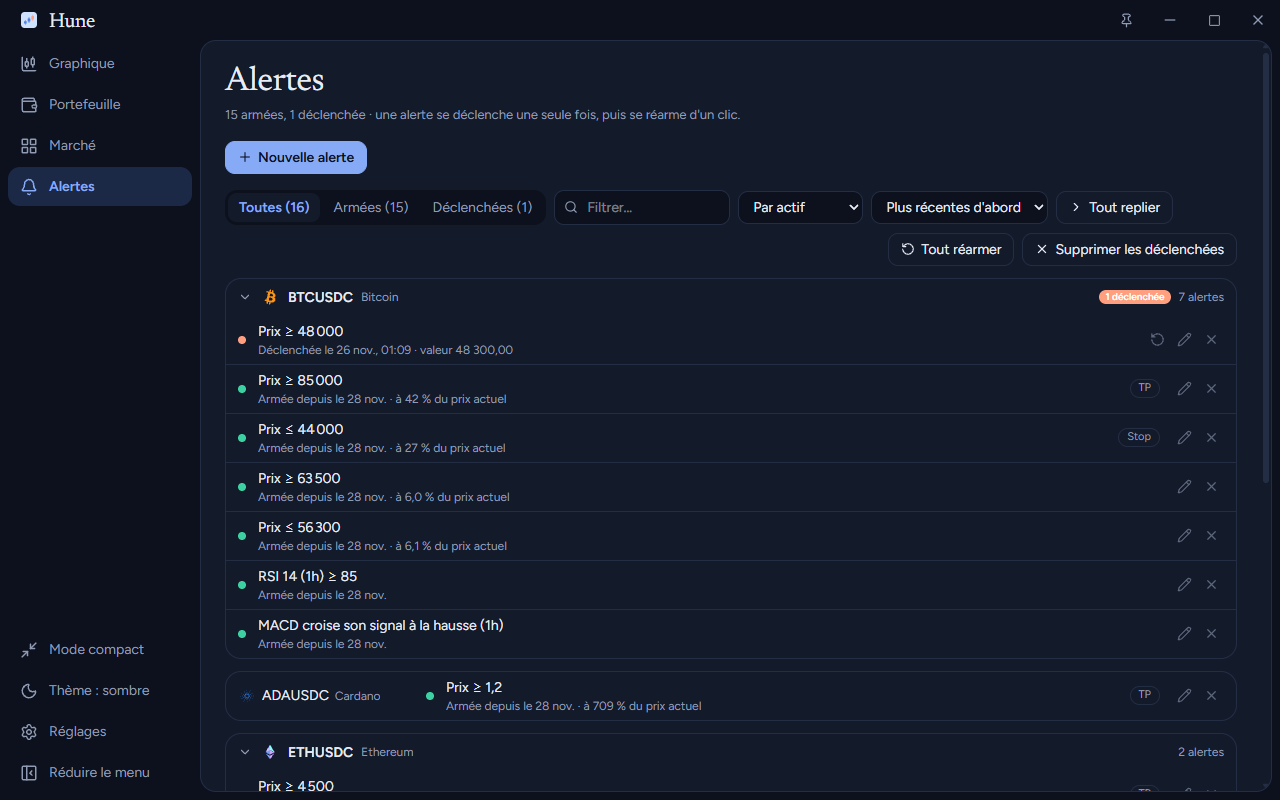
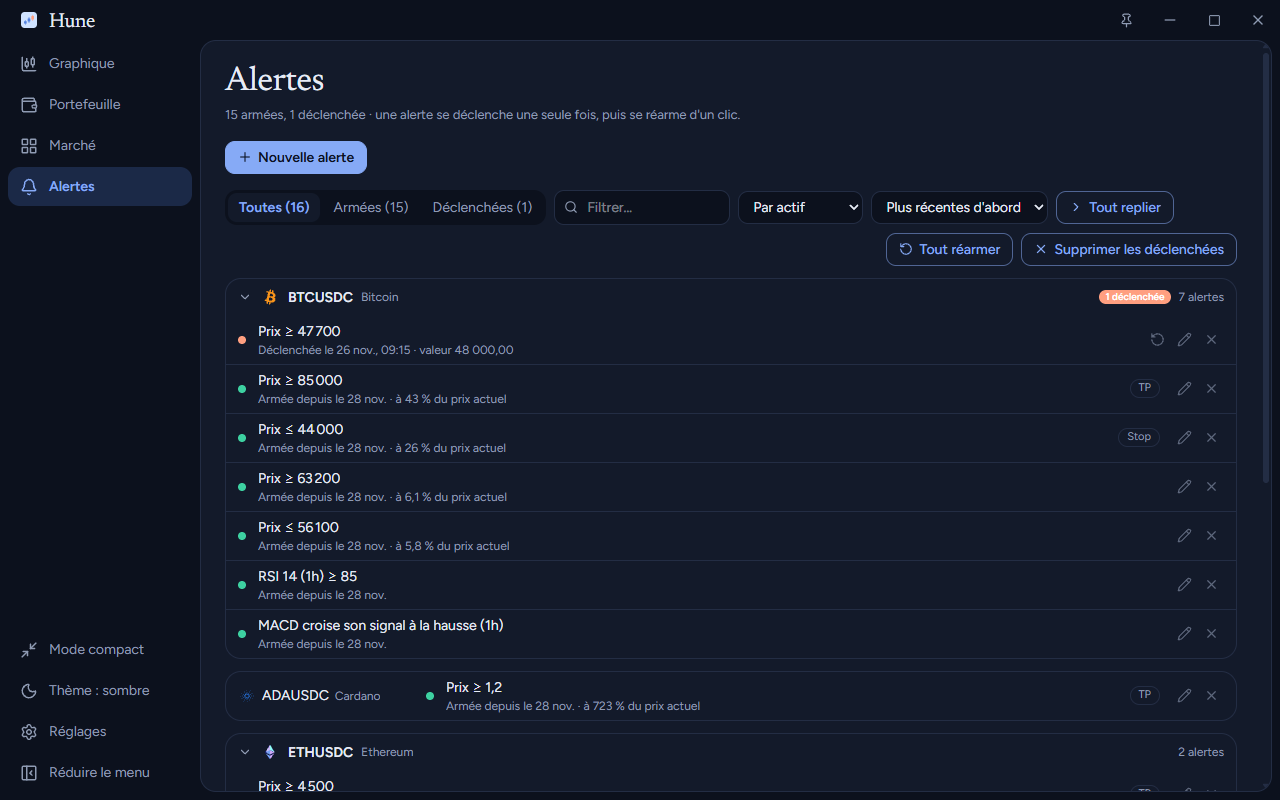
0.18.0 : boutons unifiés (plein bleu = action principale, contour bleu = secondaire)

diff --git a/src/vue-portefeuille.tsx b/src/vue-portefeuille.tsx
@@ -422,7 +422,7 @@ export function VuePortefeuille({ actifs, categories, cotations, devise, surDevi
           ))}
         </div>
         <input className="champ" placeholder="Filtrer…" value={filtre} onChange={(e) => setFiltre(e.target.value)} />
-        <button className="bouton" onClick={() => setFormulaire(formulaire ? null : { cle: actifs[0] ? cleActif(actifs[0]) : "", quantite: "", pamp: "", objectif: "", stop: "", plateforme: "", saisie: "" })}>
+        <button className="bouton bouton-actif" onClick={() => setFormulaire(formulaire ? null : { cle: actifs[0] ? cleActif(actifs[0]) : "", quantite: "", pamp: "", objectif: "", stop: "", plateforme: "", saisie: "" })}>
           <Plus size={14} /> Ajouter une position
         </button>
         <button className="bouton" title="Crée une alerte « prix ≥ objectif » pour chaque objectif saisi" onClick={preparerAlertesTp}>

diff --git a/src/styles.css b/src/styles.css
@@ -113,12 +113,14 @@ th {
   box-shadow: 0 0 0 3px color-mix(in srgb, var(--color-accent) 18%, transparent);
 }
 
+/* Boutons : une seule famille. Secondaire = contour bleu ; principal (.bouton-actif) = plein bleu. */
 .bouton {
   background: var(--color-carte);
-  border: 1px solid var(--color-ligne);
+  border: 1px solid color-mix(in srgb, var(--color-accent) 45%, var(--color-ligne));
   border-radius: 10px;
   padding: 5px 12px;
-  color: var(--color-texte);
+  font-weight: 500;
+  color: var(--color-accent);
   transition:
     background 0.15s,
     border-color 0.15s,
@@ -127,7 +129,7 @@ th {
 }
 .bouton:hover:not(:disabled) {
   background: var(--color-accent-doux);
-  border-color: color-mix(in srgb, var(--color-accent) 45%, var(--color-ligne));
+  border-color: var(--color-accent);
 }
 .bouton:active:not(:disabled) {
   transform: translateY(1px);

diff --git a/CHANGELOG.md b/CHANGELOG.md
@@ -3,6 +3,11 @@
 Toutes les évolutions notables de Hune. Format inspiré de [Keep a Changelog](https://keepachangelog.com/fr/1.1.0/) ; les versions suivent [SemVer](https://semver.org/lang/fr/).
 Le texte de chaque version sert de notes pour la release GitHub (`scripts/publier.ps1`).
 
+## [0.18.0] - 2026-11-28
+
+### Modifié
+- **Boutons unifiés** dans toute l'interface, sur le modèle du bouton bleu des alertes : une action principale est un bouton plein bleu (« Ajouter une position », « Nouvelle alerte », « Installer et redémarrer »…), toutes les autres actions sont des boutons à contour bleu, avec le même rayon, la même épaisseur de texte et le même survol.
+
 ## [0.17.0] - 2026-11-28
 
 ### Ajouté
